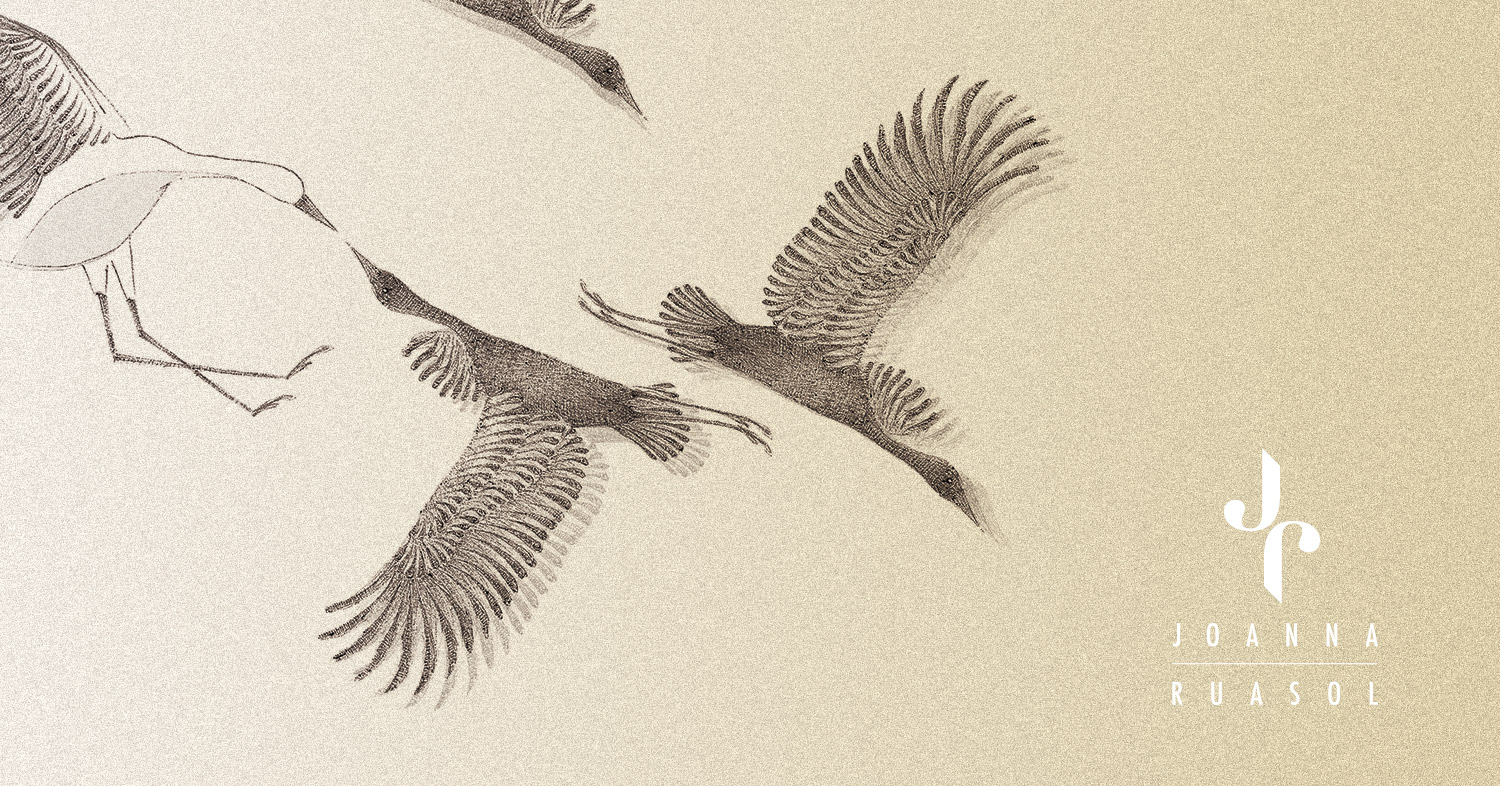
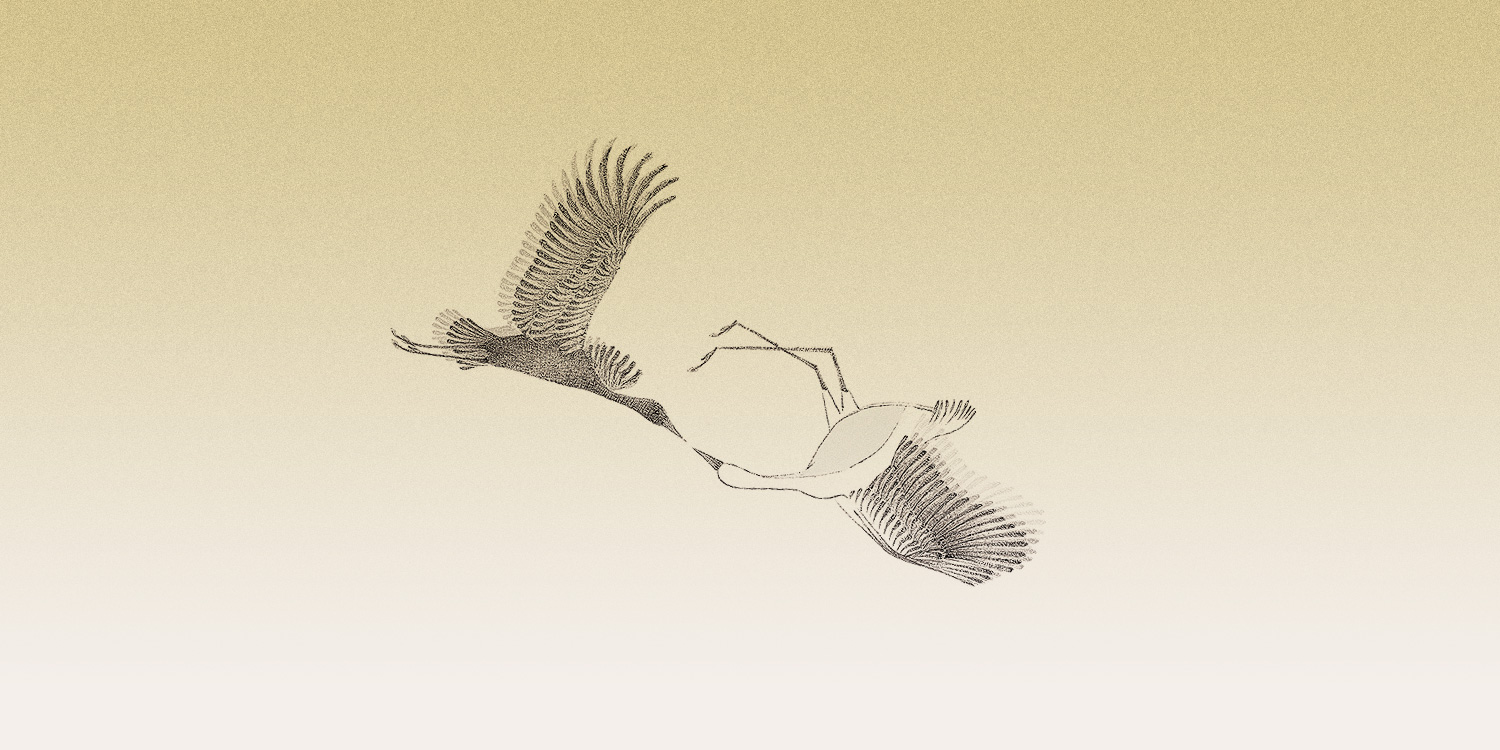
bgchange

diff --git a/css/jo.css b/css/jo.css
@@ -8,6 +8,7 @@ body {
     webkit-tap-highlight-color: #BB7E6F;
 }
 
+
 /* !STRUCTURE/DIVS */
 
 /* div bgs */
@@ -20,19 +21,23 @@ body {
     background-color: #F4EFEB;
 }
 
-
 /* top div */
 
 header {
-    height: 54em;
+    height: 750px; 
+    text-align: center;
     background-attachment: scroll;
-    background-image: url(../img/FINALBG.jpg);
+    background-image: url(../img/testBG.jpg);
     background-position: center center;
-    background-repeat: no-repeat;
+    background-repeat: none;
     -webkit-background-size: cover;
     -moz-background-size: cover;
     background-size: cover;
     -o-background-size: cover;
+}
+
+header .intro-text {
+    padding-top: 300px;
 }
 
 /* section heights */
@@ -67,6 +72,7 @@ footer {
     font-weight: 300;
     
 }
+
 
 /* !NAV */
 
@@ -118,7 +124,6 @@ footer {
     color: #BB7E6F;
 }
 
-
 .navbar-default .nav li a:hover,
 .navbar-default .nav li a:focus {
     outline: 0;
@@ -141,6 +146,20 @@ footer {
 
 
 /* !TYPE */
+
+header .intro-text .intro-heading {
+    margin-bottom: 25px;
+    font-family: "Roboto","Helvetica Neue", "Helvetica", "Arial",sans-serif;
+    font-weight: 100;
+    color: #FFF;    
+    font-size: 25px;
+    line-height: 26px;
+    letter-spacing: 10px;
+}
+
+hr {
+    border-top: 1px solid #FFF;
+}
 
 .text-muted {
     color: #000000;

diff --git a/index.html b/index.html
@@ -75,6 +75,14 @@
 
     <!-- Header -->
     <header>
+       <div class="container">
+         <div class="intro-text">
+           <div class="intro-heading">
+             JOANNA 
+             <hr>
+             RUASOL
+        </div>
+      </div>
     </header>
     
     
